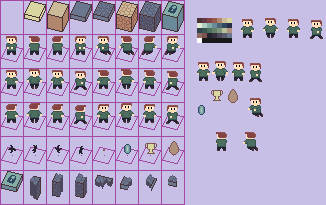
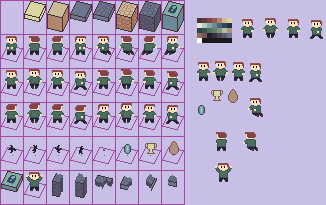
hold animation

Changed region(s): [[0.0613, 0.8195, 0.1534, 0.9659], [0.6442, 0.7902, 0.7055, 0.9073]]

diff --git a/script/Entities.js b/script/Entities.js
@@ -20,10 +20,11 @@ ld49.entities.Player = class extends Entity {
         this.chain = null;
         this.pull = null;
         this.live = true;
+        this.hold = null;
     }
 
     input(game, key) {
-        if (this.moveLeft > 0 || this.chain !== null || this.pull !== null) {
+        if (this.moveLeft > 0 || this.chain !== null || this.pull !== null || this.hold !== null) {
             return;
         }
         if (key === 'space') {
@@ -152,6 +153,13 @@ ld49.entities.Player = class extends Entity {
             game.won = true;
             realX = this.x;
             realY = this.y;
+        } else if (this.hold !== null) {
+            this.hold.time -= dt;
+            if (this.hold.time <= 0) {
+                this.hold = null;
+            }
+            realX = this.x;
+            realY = this.y;
         } else {
             realX = this.x;
             realY = this.y;
@@ -162,14 +170,17 @@ ld49.entities.Player = class extends Entity {
                 entity.isGem = false;
                 entity.live = false;
                 game.gemsCollected += 1;
-                entity.pickedUp(game);
+                entity.pickedUp(game, this);
                 game.app.sound.play('gem');
             }
         }
     }
 
     draw(renderer) {
-        if (this.pull !== null) {
+        if (this.hold !== null && this.moveLeft <= 0) {
+            renderer.draw(41, this.x, this.y);
+            renderer.draw(this.hold.icon, this.x - 0.1, this.y, 1.8, true);
+        } else if (this.pull !== null) {
             for (let i = this.pull.stepsDone + 1; i <= this.pull.steps; i++) {
                 const v = Math.sin((i - this.pull.steps) * 0.5);
                 const mul = this.pull.tighten * 0.1;
@@ -242,8 +253,12 @@ ld49.entities.Trophy = class extends Entity {
         renderer.draw(38, this.x, this.y, bob * 0.2);
     }
 
-    pickedUp(game) {
+    pickedUp(game, player) {
         game.winTimer = 1.5;
+        player.hold = {
+            icon: 38,
+            time: 2,
+        };
     }
 }
 
@@ -266,5 +281,10 @@ ld49.entities.Egg = class extends Entity {
         renderer.draw(39, this.x, this.y, bob * 0.2);
     }
 
-    pickedUp(game) {}
+    pickedUp(game, player) {
+        player.hold = {
+            time: 1,
+            icon: 39,
+        };
+    }
 }

diff --git a/script/Renderer.js b/script/Renderer.js
@@ -8,10 +8,13 @@ ld49.util.Renderer = class {
         this.transform = transform ?? ((x, y, z) => [x, y, z]);
     }
 
-    draw(icon, x, y, z) {
+    draw(icon, x, y, z, onTop) {
         z = z ?? 0;
         [x, y, z] = this.transform(x, y, z);
-        const depth = y - x - z * 0.8;
+        let depth = y - x - z * 0.8;
+        if (onTop) {
+            depth -= 100000000;
+        }
         this.drawings.push({
             icon,
             x,
